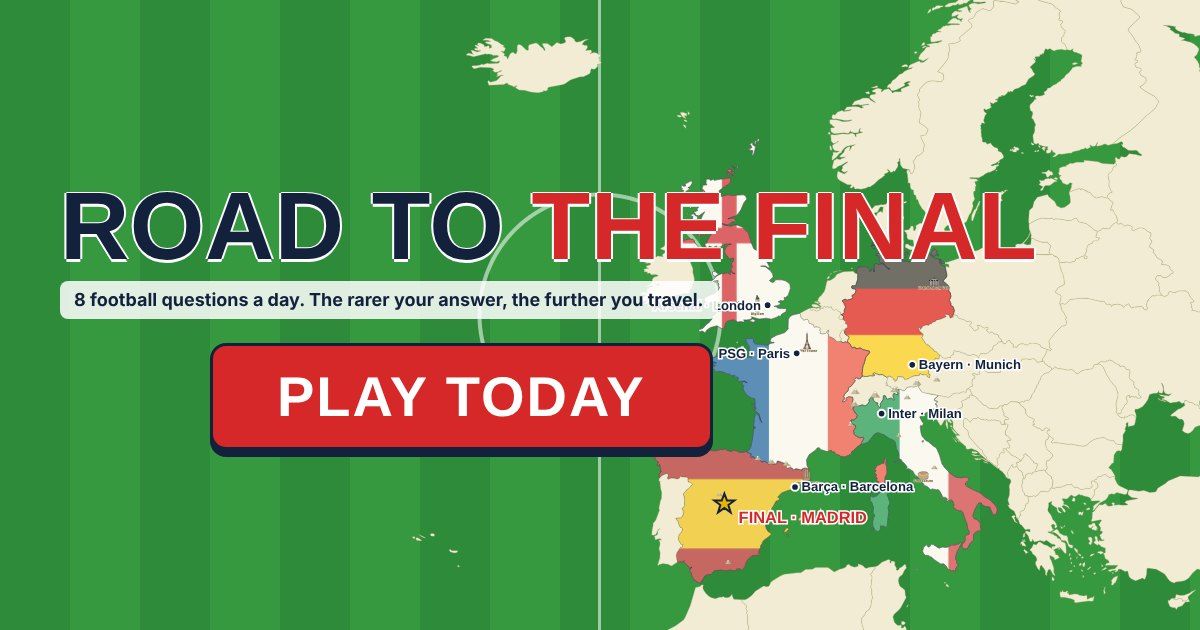
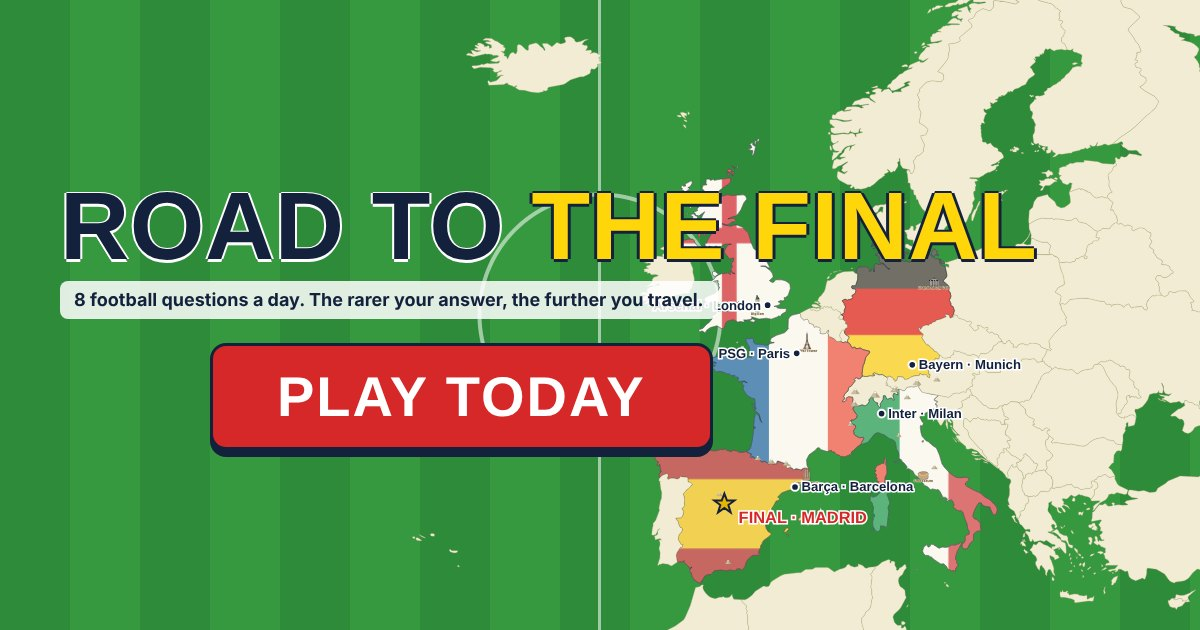
Yellow THE FINAL on start screen; stop re-sending finished results
Claude-Session: https://claude.ai/code/session_01RxuqFjy9S6C5VySMELnKnb

Changed region(s): [[0.4317, 0.3016, 0.8633, 0.4222]]

diff --git a/index.html b/index.html
@@ -217,7 +217,7 @@ body.playing #mechip{display:none}
 </style>
 </head>
 <body>
-<div id="splash"><svg id="bi" preserveAspectRatio="xMidYMid meet" aria-hidden="true"></svg><div class="sp" id="sp"><h1>Road to <span style="color:var(--red)">the Final</span></h1><p>Five champions. Five grounds. One road to the Champions League final.</p><div id="nickbox"><span class="rule">Connecting…</span></div><button type="button" id="go0">START</button><div class="rules"><p class="r1"><b>8 football questions a day.</b> Type a correct answer to travel from London to the <b>Champions League final in Madrid</b>.</p><div class="trow" id="trow"></div><div class="tarrow"><span>rarer answer</span></div><p class="r2"><b>Rarer answer = more km. Faster answer = bonus.</b> Wrong answer = 0 km. Reach Madrid and the extra kilometres keep you rolling on to Lisbon as a bonus.</p></div></div></div>
+<div id="splash"><svg id="bi" preserveAspectRatio="xMidYMid meet" aria-hidden="true"></svg><div class="sp" id="sp"><h1>Road to <span style="color:#ffd60a;text-shadow:0 3px 0 #14213d,0 -2px 0 #14213d,3px 0 0 #14213d,-3px 0 0 #14213d,0 0 2px #14213d">the Final</span></h1><p>Five champions. Five grounds. One road to the Champions League final.</p><div id="nickbox"><span class="rule">Connecting…</span></div><button type="button" id="go0">START</button><div class="rules"><p class="r1"><b>8 football questions a day.</b> Type a correct answer to travel from London to the <b>Champions League final in Madrid</b>.</p><div class="trow" id="trow"></div><div class="tarrow"><span>rarer answer</span></div><p class="r2"><b>Rarer answer = more km. Faster answer = bonus.</b> Wrong answer = 0 km. Reach Madrid and the extra kilometres keep you rolling on to Lisbon as a bonus.</p></div></div></div>
 <div class="sah" aria-hidden="true"></div>
 <header>
   <h1>Road to <span>the Final</span></h1>
@@ -735,9 +735,9 @@ async function saveName(v){
 let dbWrite=Promise.resolve();
 var pushScore=function(){
   if(!sb||!signedIn())return;
-  const k=todayKey(),h=store.get("rtf_hist",{})[k];if(!h)return;
+  const k=todayKey(),all=store.get("rtf_hist",{}),h=all[k];if(!h||(h.done&&h.synced===ME.id))return;
   const row={user_id:ME.id,day:k,km:h.km||0,correct:h.correct||0,answered:h.answered||0,done:!!h.done,log:h.log||null,updated_at:new Date().toISOString()};
-  dbWrite=dbWrite.then(()=>sb.from("results").upsert(row,{onConflict:"user_id,day"})).then(()=>loadBoard()).catch(()=>{});
+  dbWrite=dbWrite.then(()=>sb.from("results").upsert(row,{onConflict:"user_id,day"})).then(r=>{if(row.done&&(!r.error||r.status===403)){const a2=store.get("rtf_hist",{});if(a2[k]){a2[k].synced=ME.id;store.set("rtf_hist",a2);}}loadBoard();}).catch(()=>{});
 };
 async function loadBoard(){
   if(!sb)return;
